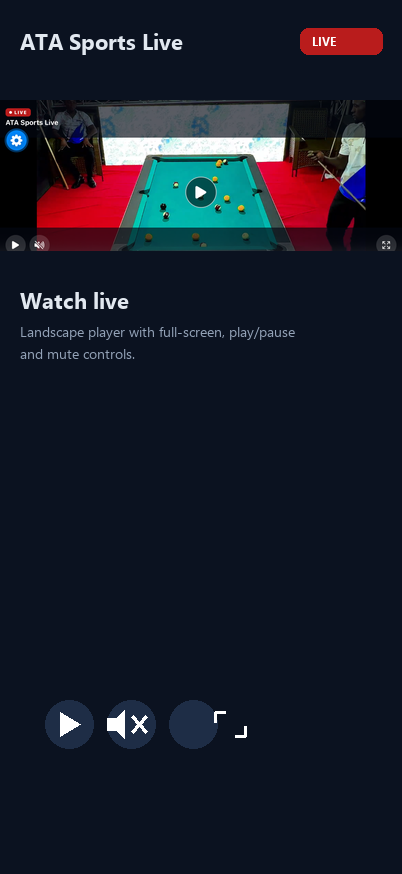
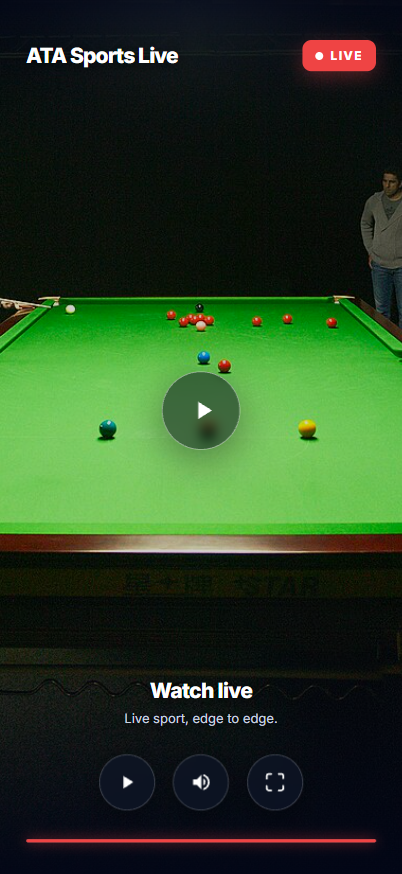
Replace app Live player screenshot with full-screen video view

diff --git a/artifacts/ata-platform/src/pages/app.tsx b/artifacts/ata-platform/src/pages/app.tsx
@@ -193,7 +193,28 @@ export default function AppLanding() {
       </section>
 
       <footer className="border-t border-slate-800 py-8 text-center text-xs text-slate-600">
-        © {new Date().getFullYear()} ATA Sports Live. All rights reserved.
+        <p>© {new Date().getFullYear()} ATA Sports Live. All rights reserved.</p>
+        <p className="mt-2">
+          Live player mockup photo by{' '}
+          <a
+            href="https://commons.wikimedia.org/wiki/File:Snooker_table_selby.JPG"
+            target="_blank"
+            rel="noopener noreferrer"
+            className="hover:text-teal-400"
+          >
+            DmitryYakunin
+          </a>
+          , licensed under{' '}
+          <a
+            href="https://creativecommons.org/licenses/by-sa/3.0/"
+            target="_blank"
+            rel="noopener noreferrer"
+            className="hover:text-teal-400"
+          >
+            CC BY-SA 3.0
+          </a>
+          .
+        </p>
       </footer>
     </div>
   );
